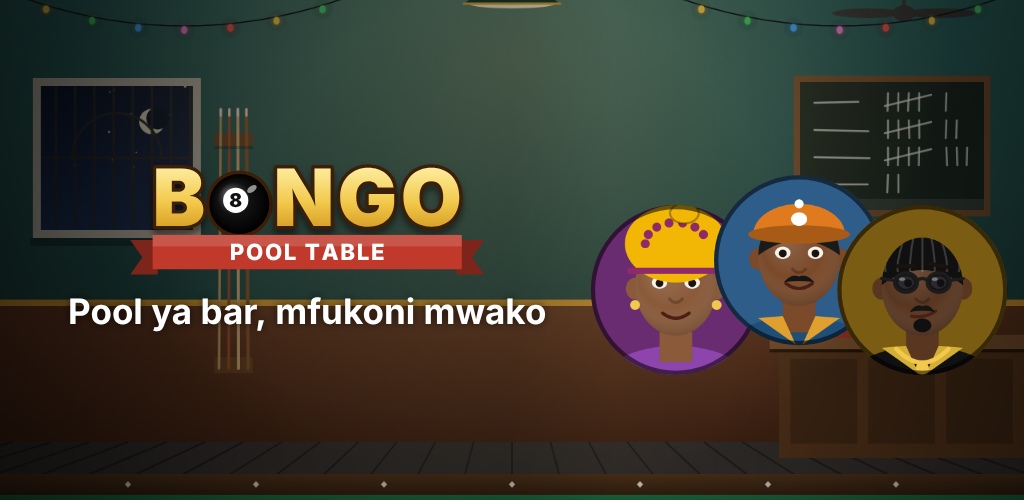
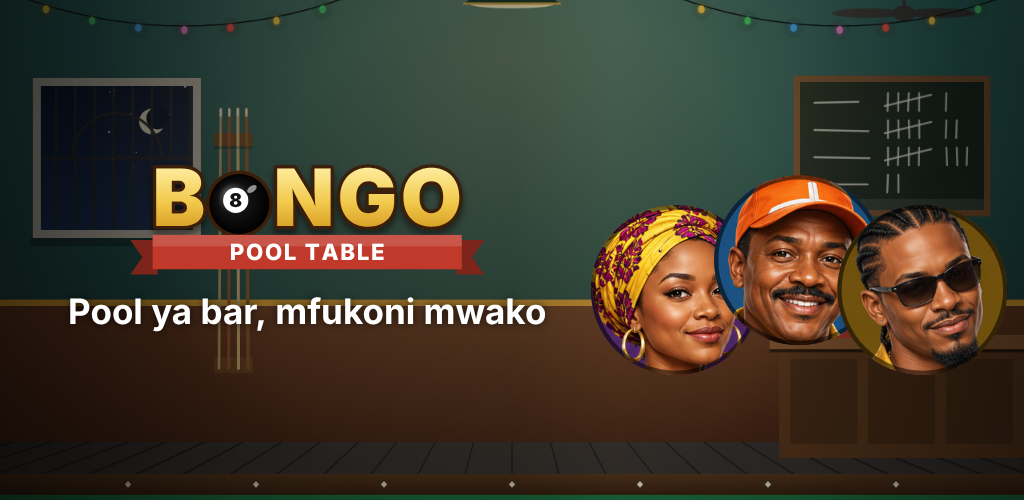
0.21.0: Robert's ChatGPT character faces, cut from his sheet; feature graphic redrawn
Claude-Session: https://claude.ai/code/session_015yhmAXV3frCJibpppnePwR

Changed region(s): [[0.5625, 0.33, 0.9688, 0.75]]

diff --git a/docs/ASSETS.md b/docs/ASSETS.md
@@ -1,6 +1,6 @@
 # Asset Inventory
 
-Since 0.20.0 the character faces are picture files in `packages/pool/portraits/` (the drawn faces, to be replaced by Robert's generated pictures; prompts in `PORTRAIT_PROMPTS.md`); there are no other art, audio or font files. Since 0.10.0 the table, balls, cue and table controls, and since 0.17.0 the portraits, buttons, panels, logo and menu background, are "Final v1 (Claude)": drawn by the game at start-up from `config/art.ts` (A24), good enough to ship, and a designer may replace any of them with an image under the same texture key. Since 0.19.0 the app icon, splash screens and store pictures are drawn by the same code, and the on-screen "placeholder art" labels are gone. Sounds are synthesised (version 2, 0.19.0); recordings may replace them. The font is still the system font.
+Since 0.20.0 the character faces are picture files in `packages/pool/portraits/` (since 0.21.0 Robert's ChatGPT pictures; prompts in `PORTRAIT_PROMPTS.md`); there are no other art, audio or font files. Since 0.10.0 the table, balls, cue and table controls, and since 0.17.0 the portraits, buttons, panels, logo and menu background, are "Final v1 (Claude)": drawn by the game at start-up from `config/art.ts` (A24), good enough to ship, and a designer may replace any of them with an image under the same texture key. Since 0.19.0 the app icon, splash screens and store pictures are drawn by the same code, and the on-screen "placeholder art" labels are gone. Sounds are synthesised (version 2, 0.19.0); recordings may replace them. The font is still the system font.
 
 | Name | Type | Purpose | Status | Location | Replacement requirements |
 |---|---|---|---|---|---|
@@ -25,7 +25,7 @@ Since 0.20.0 the character faces are picture files in `packages/pool/portraits/`
 | Fine-aim strip | Dark rounded track with a border and sliding ticks | Turns the aim slowly | Final v1 (Claude), designer may replace | `FineAim.ts`, `FINE_AIM` in `config/layout.ts` | A styled wheel or ridged strip. |
 | Match HUD | Drawn buttons and panels, portraits, shaded tray balls; plain text | Player panels, potted-ball trays, status line, game-over panel, New game button | Final v1 (Claude), font still placeholder | `MatchHud.ts` | A font chosen for Kiswahili readability. |
 | Opponent picker | Drawn buttons on a drawn panel | "Unacheza na nani?" panel with five choices; the last choice is gold | Final v1 (Claude), designer may replace | `OpponentPicker.ts`, `ui.ts`, `art/uiArt.ts` | Possibly an icon per level. |
-| Character portraits | Picture files `packages/pool/portraits/<id>.png` (512 x 512), cropped round by the game; the drawn faces (Canvas 2D) are the starting files and the fallback | Head-and-shoulders faces of the 8 player and 4 computer characters, in the character picker (76 px) and the player panels (28 px) | Placeholder: drawn faces, too cartoonish (Robert); to be replaced by generated pictures | `portraits/`, `scenes/art/portraitFiles.ts`, `scenes/art/portraitArt.ts`, `config/portraits.ts`, `PORTRAIT_FILES` | Square PNG or JPEG, face centred and readable at 28 px, plain background; swap the file and run `npm run portraits`. Prompts in `PORTRAIT_PROMPTS.md`. Commercial use allowed; no real person. |
+| Character portraits | Picture files `packages/pool/portraits/<id>.png` (512 x 512), cropped round by the game; the drawn faces (Canvas 2D) are the starting files and the fallback | Head-and-shoulders faces of the 8 player and 4 computer characters, in the character picker (76 px) and the player panels (28 px) | Final v1: ChatGPT pictures by Robert (2026-10-12), cut from `portraits/source/chatgpt-faces-2026-10-12.png`; Robert to confirm the tool's terms allow commercial use | `portraits/`, `scenes/art/portraitFiles.ts`, `scenes/art/portraitArt.ts`, `config/portraits.ts`, `PORTRAIT_FILES` | Square PNG or JPEG, face centred and readable at 28 px, plain background; swap the file and run `npm run portraits`. Prompts in `PORTRAIT_PROMPTS.md`. Commercial use allowed; no real person. |
 | Character picker | Portraits and names in a grid on a drawn panel, yellow ring on the selected one | "Chagua mhusika" | Final v1 (Claude) | `CharacterPicker.ts`, `CHARACTER_PICKER` in `config/layout.ts` | |
 | Main menu | Drawn logo and background, drawn buttons | "Bongo Pool Table" logo (8-ball as the O), a pool bar at night with no drinks; Continue, Play, Meza/Fimbo/Mandhari, Stats, Rules, Settings, Exit | Final v1 (Claude), designer may replace | `MenuScene.ts`, `scenes/art/menuArt.ts`, `MENU_ART`, `LOGO_ART` | A 1280x720 background with the middle kept calm for the buttons; a logo about 620x150. |
 | Menu panels (Stats, Rules, Settings) | Text and drawn buttons on a drawn panel | Stats lines, rules text, settings rows, Back | Final v1 (Claude) | `MenuScene.ts`, `ui.ts` (`Panel`), `art/uiArt.ts`, `UI_ART` | The rules screen may need small diagrams. |

diff --git a/docs/PROJECT_STATUS.md b/docs/PROJECT_STATUS.md
@@ -12,8 +12,9 @@ Milestone 9: art and sound, in three parts, each sent to Robert as a phone build
 - **Part B, the screens (done, 0.17.0, 2026-10-11):** a portrait for each of the 12 characters, styled buttons and panels, a title logo, a menu background of a local bar (no drinks shown), shaded balls in the trays.
 - **Potted-ball tube (done, 0.18.0, 2026-10-11; Robert's idea):** a glass tube beside the table that potted balls roll into; table about 4% smaller to fit it. Robert dropped the 8-ball (stripes and solids) game type.
 - **Part C, store and sound (done, 0.19.0, 2026-10-11):** icon, splash, feature graphic and store screenshots redone in the new style; better synthesised sounds.
-- **Faces from picture files (done, 0.20.0, 2026-10-12; Robert's request):** each face is a replaceable file in `packages/pool/portraits/`, starting with the drawn faces; `docs/PORTRAIT_PROMPTS.md` has a prompt per character for an image tool. Next: Robert makes the pictures, Claude fits and checks them. Bingwa's name confirmed.
-- Waiting on Robert: the new face pictures, the email domain (farddatasolutions.net, double d, vs the app ID's fardatasolutions), a public link for the privacy policy, a Google Play developer account.
+- **Faces from picture files (done, 0.20.0, 2026-10-12; Robert's request):** each face is a replaceable file in `packages/pool/portraits/`, starting with the drawn faces; `docs/PORTRAIT_PROMPTS.md` has a prompt per character for an image tool. Bingwa's name confirmed.
+- **New faces (done, 0.21.0, 2026-10-12):** Robert's ChatGPT faces for all 12 characters, cut from his sheet. The store screenshots still show the old drawn faces in the small player panels; redo before release.
+- Waiting on Robert: confirming ChatGPT's terms allow the faces in a commercial app, the email domain (farddatasolutions.net, double d, vs the app ID's fardatasolutions), a public link for the privacy policy, a Google Play developer account.
 
 ### Milestone 8 scope (done)
 Robert's request (2026-10-11): character selection before playing, looks only, Tanzanian street nicknames (nothing vulgar), 75% men and 25% women.

diff --git a/docs/CHANGELOG.md b/docs/CHANGELOG.md
@@ -1,5 +1,9 @@
 # Changelog
 
+## 0.21.0 (unreleased) - New character faces
+- Robert made the twelve faces with ChatGPT from `PORTRAIT_PROMPTS.md` (2026-10-12), as one 4 x 3 sheet in picker order. Each face was cut from the sheet with a little room around the head so caps and wraps stay in, resized to 512 x 512 and saved as a JPEG (about 35 to 50 KB each, 0.5 MB for all twelve). The sheet is kept in `portraits/source/` for re-cutting.
+- The store feature graphic shows the new faces of Malkia, Fundi and Bingwa.
+
 ## 0.20.0 (unreleased) - Character faces from picture files
 - Robert (2026-10-12): the drawn faces are too cartoonish, and he wants to be able to replace them with pictures at any time. Each character's face is now a picture file in `packages/pool/portraits/`, named after the character (`fundi.png`, `mama-ntilie.png`...). Swap a file and rebuild, and that face changes; no code changes. PNG or JPEG, square.
 - The first set of files is the current drawn faces, so the game looks the same until new pictures arrive. If a picture is missing or will not load, that character falls back to its drawn face.
